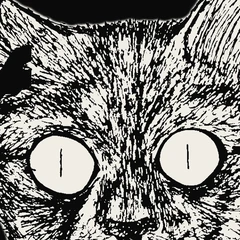
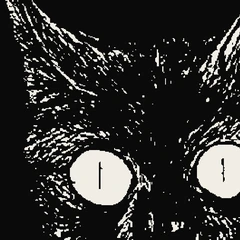
Portada: gato más oscuro según el montaje de Fernando
Claude-Session: https://claude.ai/code/session_01NEzbccjhWNBMk8itoPmEQH

diff --git a/css/estilos.css b/css/estilos.css
@@ -1125,7 +1125,7 @@ video.wcard__img { background: var(--ink-2); }
 /* Capas de la cabeza: coordenadas exactas dentro de la foto (en %), así coinciden siempre */
 .hero__hit {
     position: absolute;
-    left: 30%; top: -12%; width: 42%; height: 82%;
+    left: 30%; top: -5%; width: 38%; height: 75%;
     z-index: 4;
     pointer-events: auto;
     cursor: pointer;
@@ -1134,7 +1134,7 @@ video.wcard__img { background: var(--ink-2); }
 }
 .hero__me, .hero__owl { position: absolute; display: block; height: auto; pointer-events: none; user-select: none; }
 .hero__me  { left: 35.624%; top: 0;       width: 31.849%; z-index: 2; opacity: 0; transition: opacity .6s ease .1s; }
-.hero__owl { left: 31.510%; top: -14.070%; width: 39.981%; z-index: 3;
+.hero__owl { left: 24.976%; top: -5.946%; width: 43.804%; z-index: 3;
              transform-origin: 50% 95%;
              transition: transform .7s var(--ease), opacity .55s ease, filter .55s ease; }
 /* Hover (o teclado / toque): el búho se aparta hacia arriba y aparece tu cara */
